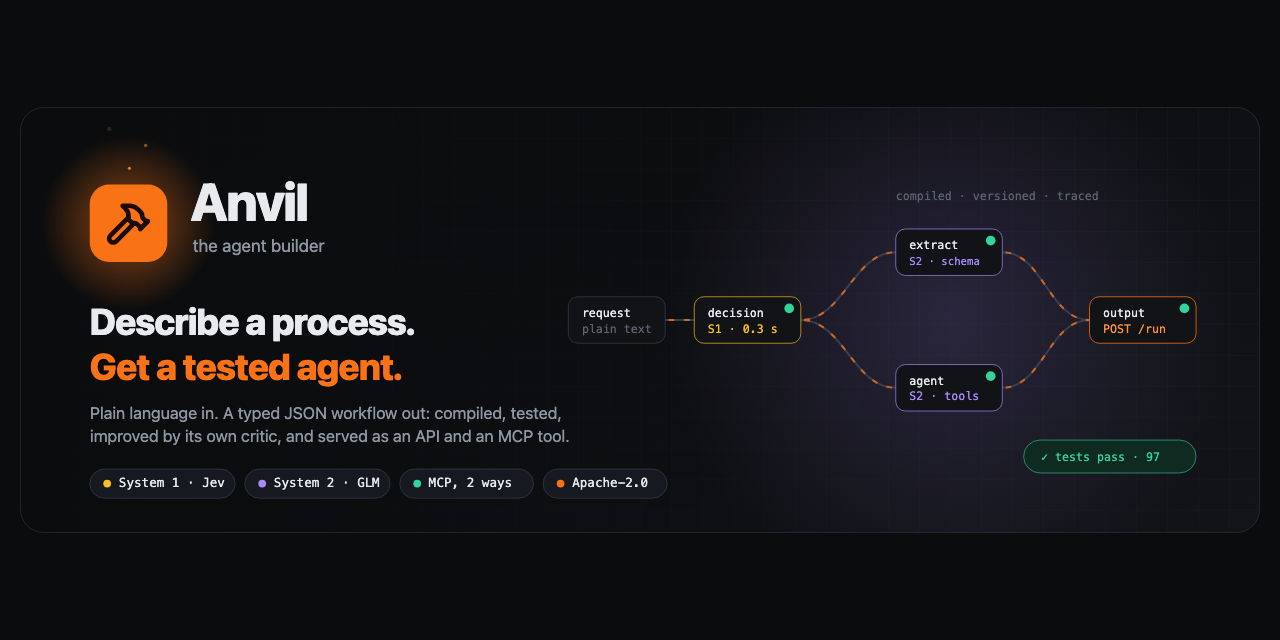
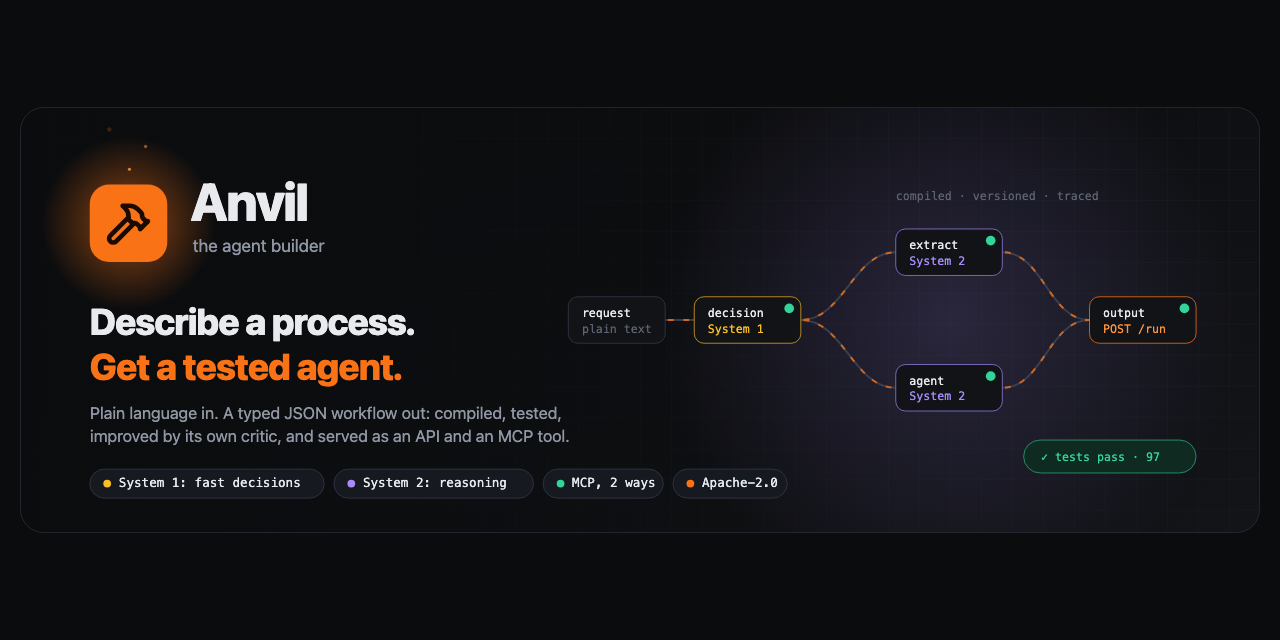
Explain best-of-N and pass^k, and make the System 1 and System 2 labels clear

diff --git a/README.md b/README.md
@@ -40,18 +40,19 @@ An Anvil agent is not a long prompt. It is a typed JSON workflow of **node class
 4. [The compiler](#the-compiler)
 5. [System 1 and System 2](#system-1-and-system-2)
 6. [Tests, evaluation, and evolution](#tests-evaluation-and-evolution)
-7. [The runtime harness](#the-runtime-harness)
-8. [Conversation agents and safe actions](#conversation-agents-and-safe-actions)
-9. [Closed builds: given tools, tests, and rules](#closed-builds-given-tools-tests-and-rules)
-10. [Data: files, live sources, and a library that grows](#data-files-live-sources-and-a-library-that-grows)
-11. [The Python sandbox](#the-python-sandbox)
-12. [Autonomy: triggers, health checks, and feedback](#autonomy-triggers-health-checks-and-feedback)
-13. [MCP in both directions](#mcp-in-both-directions)
-14. [Use Anvil: UI, CLI, HTTP API, Docker](#use-anvil-ui-cli-http-api-docker)
-15. [Configuration](#configuration)
-16. [Project layout](#project-layout)
-17. [FAQ](#faq)
-18. [License](#license)
+7. [Best-of-N and pass^k](#best-of-n-and-passk)
+8. [The runtime harness](#the-runtime-harness)
+9. [Conversation agents and safe actions](#conversation-agents-and-safe-actions)
+10. [Closed builds: given tools, tests, and rules](#closed-builds-given-tools-tests-and-rules)
+11. [Data: files, live sources, and a library that grows](#data-files-live-sources-and-a-library-that-grows)
+12. [The Python sandbox](#the-python-sandbox)
+13. [Autonomy: triggers, health checks, and feedback](#autonomy-triggers-health-checks-and-feedback)
+14. [MCP in both directions](#mcp-in-both-directions)
+15. [Use Anvil: UI, CLI, HTTP API, Docker](#use-anvil-ui-cli-http-api-docker)
+16. [Configuration](#configuration)
+17. [Project layout](#project-layout)
+18. [FAQ](#faq)
+19. [License](#license)
 
 ## Quickstart
 
@@ -200,9 +201,18 @@ flowchart LR
   <img src="assets/s1s2.svg" alt="A typed question goes to Jev first. A confident answer is used. A low-confidence answer goes to the reasoning model." width="100%">
 </p>
 
-- **System 2** is a reasoning model. The default is `z-ai/glm-5.3-flash` on OpenRouter, in three tiers: `fast`, `balanced`, and `deep`. The tiers set the reasoning effort and the token budget.
-- **System 1** is `typesafe/jev-1.13` on the OpenRouter Decisions API. It gives typed answers with calibrated probabilities in about 0.3 seconds.
-- When Jev is less confident than the threshold, the question goes to System 2.
+Anvil uses two kinds of model, like fast and slow thinking:
+
+| | System 1: fast decisions | System 2: reasoning |
+|---|---|---|
+| Job | Answers typed questions: yes or no, a choice, a score | Writes, plans, extracts, and calls tools |
+| Answer | A typed value with a calibrated probability | Text or JSON, with reasons |
+| Speed | About 0.3 seconds | Seconds to minutes |
+| Used for | Triage, plan checks, model tiers, test grades, failure blame, the action gate, `decision` nodes | Analyze, architect, compose, testgen, the critic, `llm` and `agent` nodes |
+| Default model | `typesafe/jev-1.13` (OpenRouter Decisions API) | `z-ai/glm-5.3-flash`, in the tiers `fast`, `balanced`, and `deep` |
+| Setting | `ANVIL_DECISION_MODEL` | `ANVIL_LLM_MODEL`, `ANVIL_TIERS` |
+
+When System 1 is less confident than the threshold (`ANVIL_CONFIDENCE_THRESHOLD`, default 0.6), the question goes to System 2. Most decisions cost one fast call, and only the hard ones cost a reasoning call.
 
 You can change both models with `ANVIL_LLM_MODEL` and `ANVIL_DECISION_MODEL`. The Usage page shows the cost and the calls of each system.
 
@@ -228,12 +238,54 @@ flowchart LR
 
 Rules that keep the evolution honest:
 
-- **The blame step.** Jev decides if a failure is the fault of the agent or of the test (a live value, a contradiction, a test outside the task). The step drops only tests that are wrong. Given tests and feedback tests are never dropped.
+- **The blame step.** System 1 decides if a failure is the fault of the agent or of the test (a live value, a contradiction, a test outside the task). The step drops only tests that are wrong. Given tests and feedback tests are never dropped.
 - **Hill climbing.** A candidate replaces the current best only when it scores higher with the same or a higher pass rate.
 - **Invariants.** The step rejects a candidate that removes a `human_approval` gate, removes a named or planned source, or changes the meaning of the task (a Jev intent guard).
 - **No lost agent.** A failed round keeps the best version so far.
 - **Lessons.** Each fix becomes a lesson of the domain, and later builds of the domain read it.
-- **Consistency.** `pass^k` runs each test k times. Best-of-N builds candidates with several builder models, runs one shared suite on each, and a judge model decides between close candidates ([docs/SELECTION.md](docs/SELECTION.md)).
+- **Consistency.** See [Best-of-N and pass^k](#best-of-n-and-passk).
+
+## Best-of-N and pass^k
+
+One build is one sample. The same request can give an agent that scores 0.98 in one build and 0.49 in the next. Anvil fixes this with two tools ([docs/SELECTION.md](docs/SELECTION.md)).
+
+<p align="center">
+  <img src="assets/best-of-n.svg" alt="Three builder models build candidates. One candidate times out. The others run a shared test suite three times. Candidate A passes 3 of 4 tests every time and wins." width="100%">
+</p>
+
+**pass^k** measures if an agent is consistent, not lucky. The evaluation runs each test k times.
+
+| Field | Meaning |
+|---|---|
+| `passed` (a test) | true only when every one of the k runs passed |
+| `passRate` (the report) | the share of the tests where every run passed: this is pass^k |
+| `passAny` (the report) | the share of the tests with at least one good run |
+| `score` (a test) | the mean score of the k runs |
+
+A run that the environment stopped (for example a rate limit) does not count. Each run of a conversation test gets its own session, so mock tools start from their start state.
+
+**Best-of-N** builds several candidates and keeps the best one:
+
+| Step | What happens |
+|---|---|
+| 1. Model check | Each builder model gets a small test request. A model that does not answer is not used. |
+| 2. Candidates | Each model builds one full candidate in parallel, without publishing it. A candidate that fails or is too slow is out, and its build stops at once, so it costs nothing more. When two candidates are ready, the others get a short grace time. |
+| 3. Shared suite | The given tests first, then the tests of all candidates without duplicates. Each candidate runs the same suite. |
+| 4. pass^k | Each candidate runs each test 3 times. A given test counts 2 times. The ranking is the weighted pass^k rate, then the weighted score. |
+| 5. Decision | A leader with a lead larger than the margin (0.05) wins. Close candidates go to a judge model. The judge sees them under random letters, never the model name, and weighs each failure: severe (a broken rule, an action without confirmation, an invented fact), medium (a wrong result), or light (format, tone). |
+| 6. Publish | The winner is saved with its tests and `meta.selection`. The other candidates are not saved. |
+
+Measured on the practice suite (5 cases, 13 hidden tests, the fast profile):
+
+| | One build (6 runs) | Best-of-3 (3 runs) |
+|---|---|---|
+| Mean score on hidden tests | 0.823 | 0.935 |
+| Range (max − min) | 0.310 | 0.061 |
+| Cases that meet their expectations | 3 to 5 of 5 | 5 of 5 in each run |
+| Cost of a run | about $0.10 | $1.11 to $1.80 |
+| Time of a run | 5 to 12 minutes | about 24 minutes |
+
+Turn it on for all builds with `ANVIL_BEST_OF=on`, for one build with `candidates` in `POST /api/build` (a number, or `"auto"` for one candidate for each model), or with the **Best of N** switch on the Build page. Set the models with `ANVIL_BUILD_MODELS` and the judge with `ANVIL_SELECT_JUDGE_MODEL`.
 
 ## The runtime harness
 
